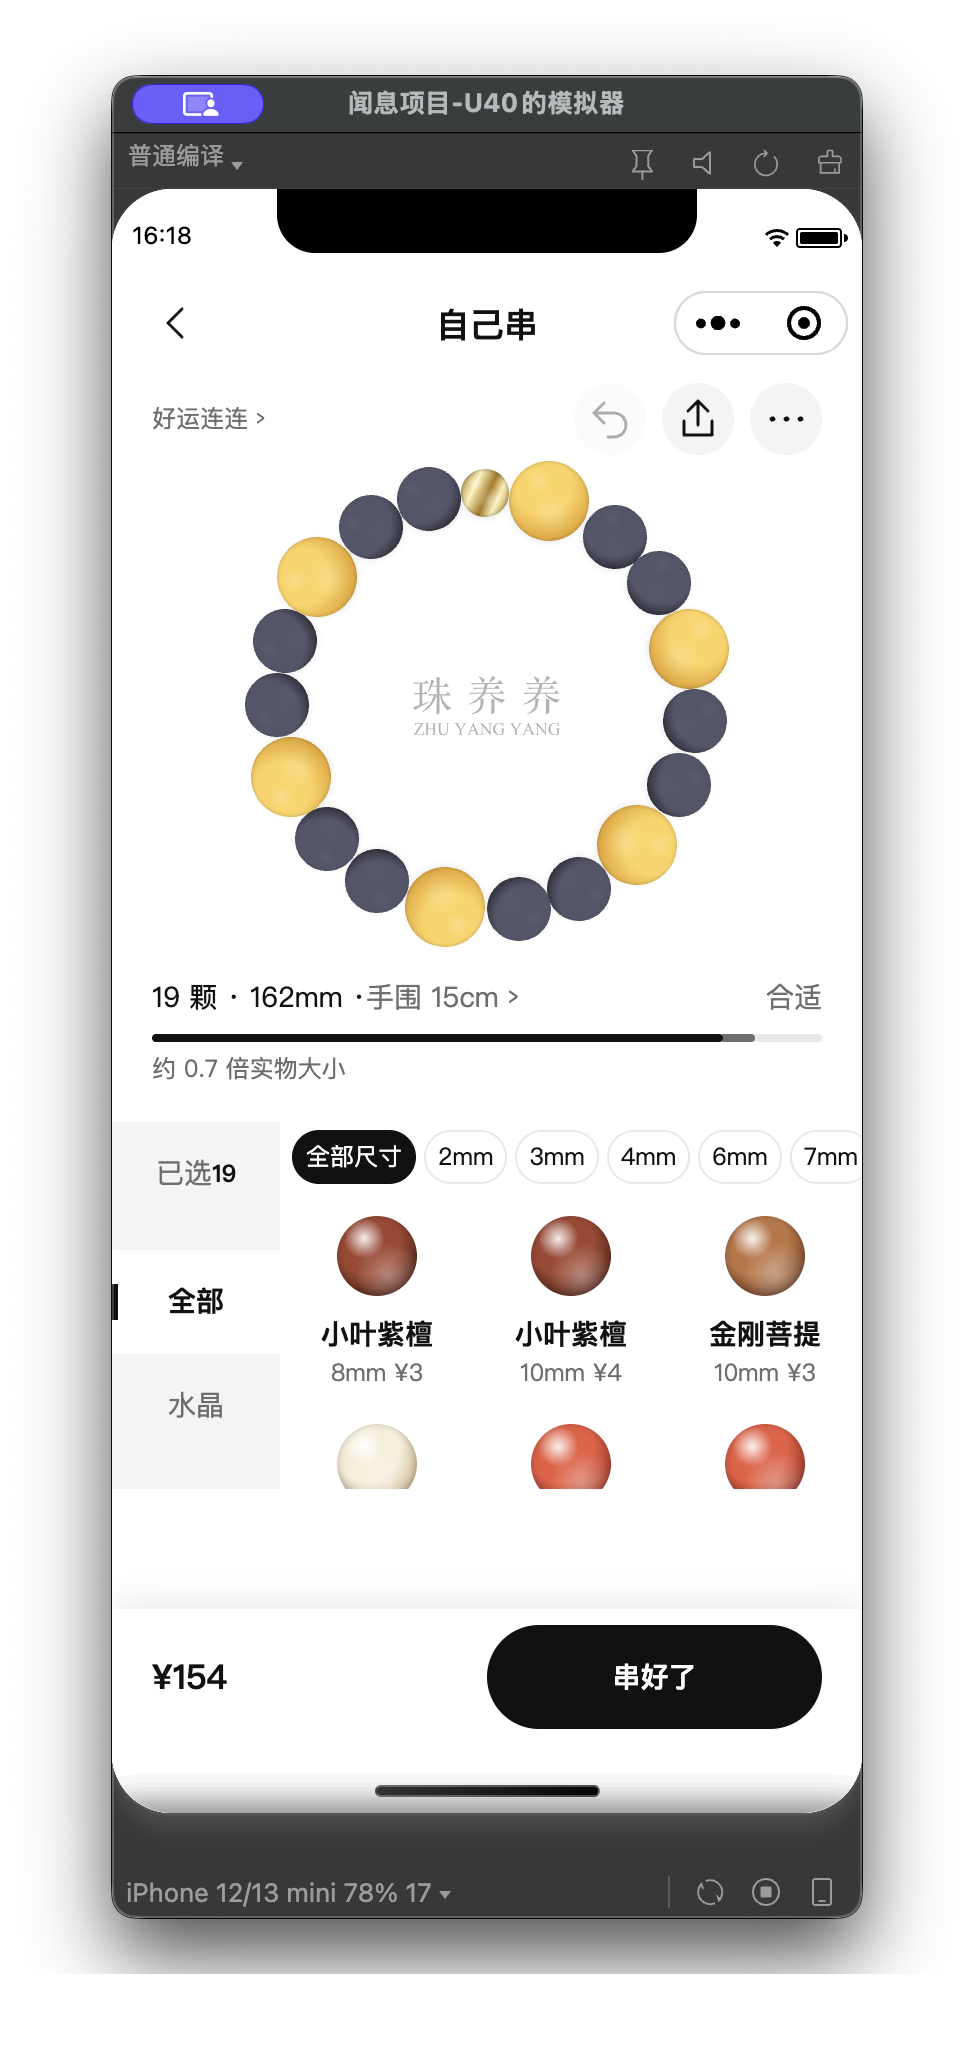
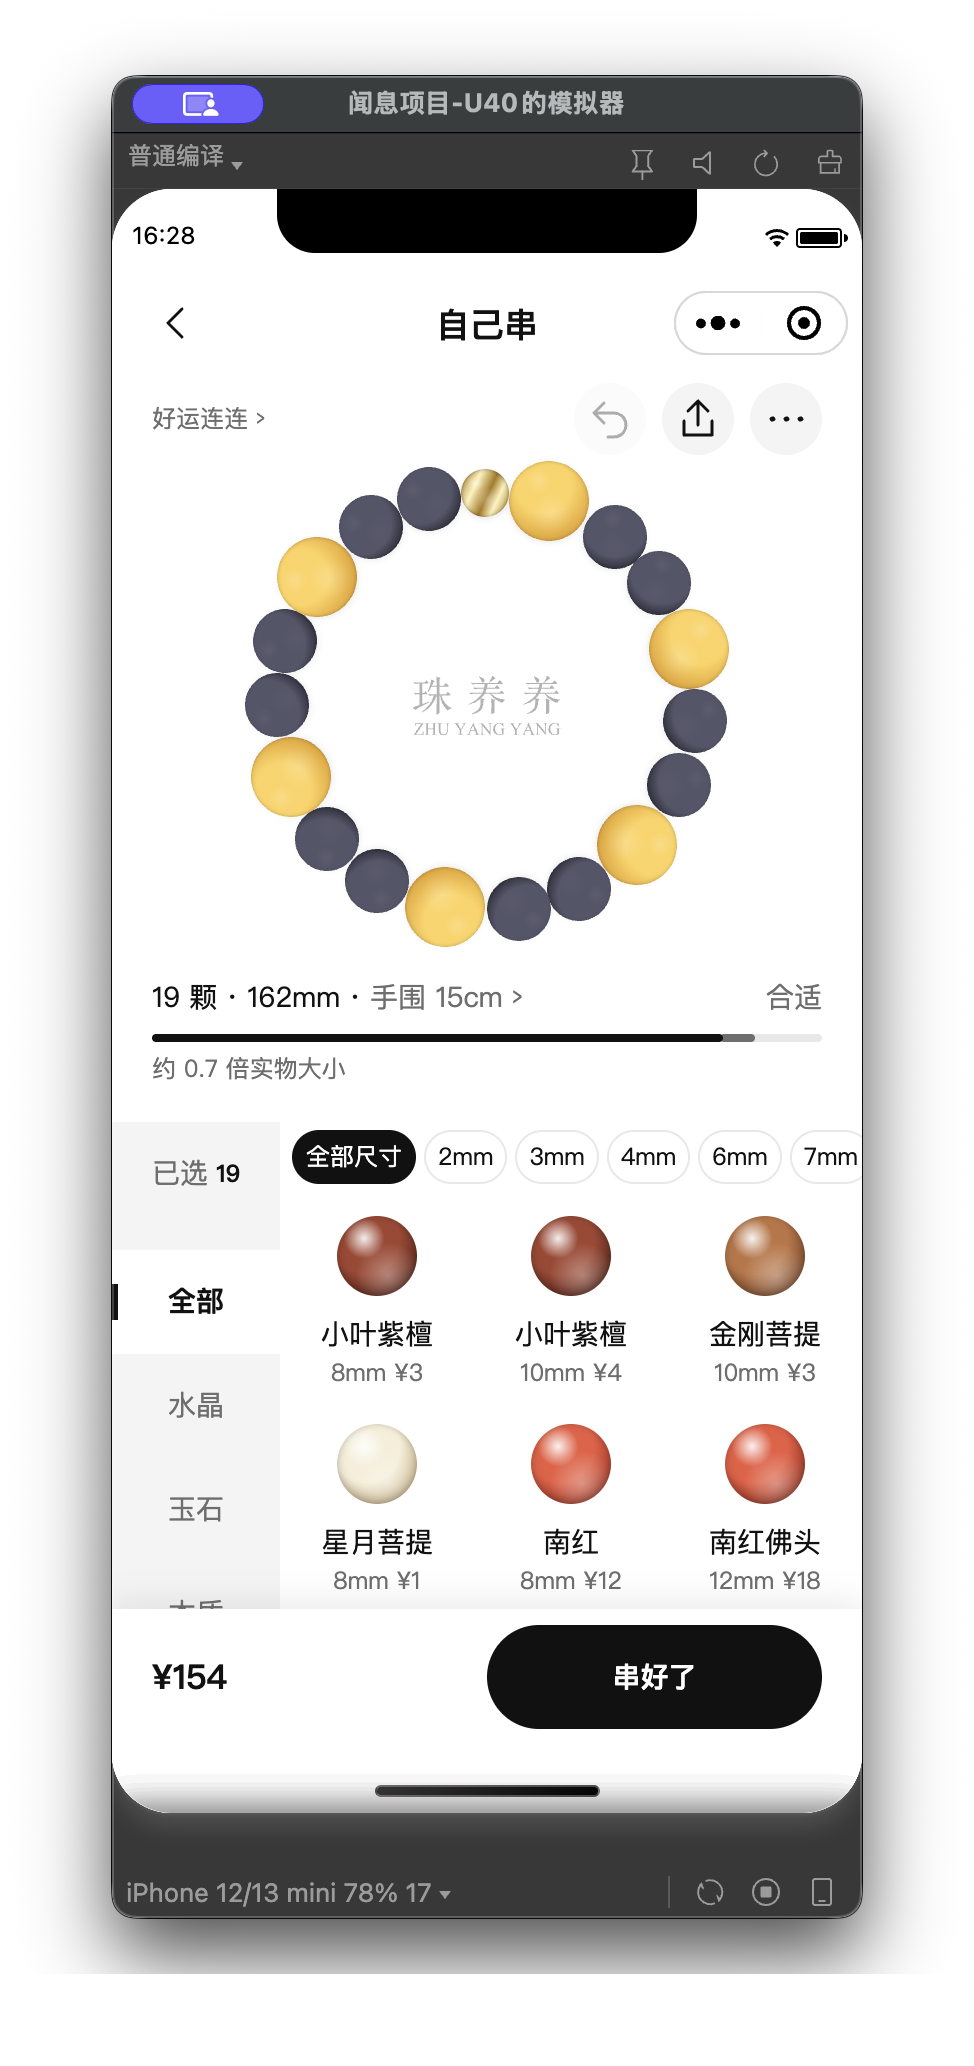
fix: fill U40 picker and verify workbench return routes

diff --git a/miniprogram/tests/u40-workbench-v7.test.js b/miniprogram/tests/u40-workbench-v7.test.js
@@ -53,3 +53,18 @@ test('目录和已选珠图固定尺寸，比例尺只用于托盘',()=>{
   assert.doesNotMatch(markup,/item(?:\.bead)?\.mm\s*\*\s*scaleRpx/)
   assert.match(markup,/pixelsPerMm="{{scaleRpx}}"/)
 })
+test('选珠区填满剩余空间，分类和珠格各自滚动，文字层级正确',()=>{
+  const markup=fs.readFileSync(path.join(__dirname,'../pages/diy/diy.wxml'),'utf8')
+  const styles=fs.readFileSync(path.join(__dirname,'../pages/diy/diy.wxss'),'utf8')
+  assert.match(styles,/\.workbench\{height:100vh;min-height:0;overflow:hidden\}/)
+  assert.match(styles,/\.picker\{[^}]*flex:1;min-height:0;padding:0;/)
+  assert.match(styles,/\.category-rail\{[^}]*height:100%;min-height:0/)
+  assert.match(styles,/\.bead-scroll,\.picked-scroll\{height:0;min-height:0;flex:1\}/)
+  assert.match(markup,/<scroll-view scroll-y[^>]*class="category-rail"/)
+  assert.match(markup,/<scroll-view wx:elif="{{cat === 'picked'}}" scroll-y/)
+  assert.match(markup,/<scroll-view wx:else scroll-y/)
+  assert.match(styles,/\.bead-name\{[^}]*font-weight:var\(--fw-regular\)/)
+  assert.match(styles,/\.picked-info\{[^}]*font-weight:var\(--fw-regular\)/)
+  assert.match(styles,/\.category-picked\{gap:8rpx\}/)
+  assert.match(markup,/<text>{{beadCount}} 颗<\/text><text>·<\/text><text>{{lengthMm}}mm<\/text><text>·<\/text>/)
+})

diff --git a/miniprogram/tests/nav.test.js b/miniprogram/tests/nav.test.js
@@ -61,6 +61,19 @@ test('workbench returns to tab by switchTab and non-tab by navigateTo with param
   assert.equal(stack.at(-1).route, 'features/works/works?id=a%20b')
 })
 
+test('workbench keeps each existing entry page as its return source', () => {
+  for (const route of ['pages/home/home', 'pages/finish/finish', 'features/works/works',
+    'features/orders/orders', 'features/order-detail/order-detail',
+    'features/shared/shared', 'pages/share/share', 'features/article/article']) {
+    stack = [{ route: 'pages/home/home' }, { route, options: { id: 'test' } }]
+    app.globalData = {}
+    nav.openWorkbench({ id: 'from-' + route, beads: [] })
+    assert.deepEqual(app.globalData.workbenchReturn, { route, options: { id: 'test' } })
+    nav.backFromWorkbench(app.globalData.workbenchReturn)
+    assert.equal(stack.at(-1).route.split('?')[0], route)
+  }
+})
+
 test('openEditor uses tab navigation without exceeding page stack', () => {
   storage.cgz_wrist_confirmed = true
   for (let i = 0; i < 20; i++) {

diff --git a/docs/reports/U40-v7.4-screenshots.md b/docs/reports/U40-v7.4-screenshots.md
@@ -9,7 +9,7 @@
 | ![设计空盘](U40-assets/design-01.png) | ![实拍空盘](U40-assets/01-empty-from-tab.png) |
 
 - **一致**：无返回键；空盘虚线圈、字标、托盘三键、状态行、量尺、左侧分类栏和右侧三列珠子格均可见。格内珠子统一显示 40px，规格价格独立显示。
-- **不一致及原因**：实拍左上是“好运连连”，设计为“起个名字”。此前在同一模拟器中打开过该模板，清空珠子保留了草稿名称；该图验证的是清空后的空盘状态。实拍还显示尺寸筛选行；设计样例未画此行，任务卡第 6 条要求保留，所以按任务卡保留。
+- **不一致及原因**：实拍显示尺寸筛选行；设计样例未画此行，任务卡第 6 条要求保留，所以按任务卡保留。
 
 ## ② 从模板进入：有返回、有珠子
 
@@ -29,11 +29,37 @@
 - **一致**：左侧“已选 N”高亮；右侧切换为珠子图、名称、规格单价、圆形减键、数量、圆形加键组成的列表行。列表图统一为 32px；量尺、底栏和托盘保留。
 - **不一致及原因**：设计样例是粉草莓晶 11 颗、粉晶 10 颗；实拍模板是黑曜石 12 颗、蜜蜡 6 颗、金色转运珠 1 颗，因此实际有三行、总价 ¥154。实拍还有尺寸筛选行；任务卡第 6 条要求保留。
 
+## 审核退回的四项修正
+
+1. **选珠区高度已改**：`.workbench` 以 `100vh` 建立纵向 flex 容器；`.picker` 用 `flex:1; min-height:0` 占满状态行与底栏之间的剩余空间，不用固定高度或底部 padding。分类栏和珠子格各自作为纵向 `scroll-view` 滚动；有底栏时灰底到栏上沿，无底栏时到屏幕底部（含安全区）。重新拍的三屏可见灰底与白底延伸到下缘。
+2. **珠名字重已改**：选珠格 `.bead-name` 和已选列表 `.picked-info` 均用 `--fs-body` 与常规字重；分类栏选中项、数量、金额、按钮保留加粗。
+3. **已选间隔已改**：分类栏“已选”和数字之间为 `8rpx`，实拍显示“已选 19”。
+4. **状态行间隔已改**：颗数、长度、手围间的分隔点各通过 `8rpx` flex 间隔留白，实拍为“19 颗 · 162mm · 手围 15cm ›”。
+
+## 入口返回键核对
+
+以下截图均为开发者工具画面左上角裁图。“返回到”是实际点击工作台返回键后的页面。代码层另覆盖现有来源页的记录与返回路径，不把代码测试当作实拍。
+
+| 入口 | 实际点击路径 | 有没有返回 | 点返回回到哪一页 | 截图文件名 |
+| --- | --- | --- | --- | --- |
+| 首页“自己串” | 首页 → 自己串快捷入口 | 有 | 首页 | [entry-home-shortcut.png](U40-assets/entry-home-shortcut.png) |
+| 首页热门款模板 | 首页 → 热门款 → 详情“改一改” | 有 | 手串详情 | [entry-home-template.png](U40-assets/entry-home-template.png) |
+| 首页横幅 | 首页 → 横幅 → 模板详情“改一改” | 有 | 手串详情 | [entry-home-banner.png](U40-assets/entry-home-banner.png) |
+| 珠子详情“去串” | 当前代码无此入口 | 不适用 | 不适用 | — |
+| 我的作品新建 | 我的 → 我的作品 → 新建 | 有 | 我的作品 | [entry-works-new.png](U40-assets/entry-works-new.png) |
+| 我的作品打开 | 我的 → 我的作品 → 打开已有作品 | 有 | 我的作品 | [entry-works-open.png](U40-assets/entry-works-open.png) |
+| 订单“再来一单” | 我的 → 我的订单，被登录页拦下；另从热门款 → 立即下单进入确认订单页，该手串长度合适，页面无“回去调整”入口 | 未验证 | 未验证 | — |
+| 分享页“照这条串一条” | 本地测试分享快照 → 好友分享页 → “照这条串一条” | 有 | 好友分享页 | [entry-share-use.png](U40-assets/entry-share-use.png) |
+| 文章“去串” | 离线无文章数据 | 未验证 | 未验证 | — |
+| 底部导航“自己串” | 底部 tab → 自己串 | 无（符合设计） | 不适用 | [entry-bottom-tab.png](U40-assets/entry-bottom-tab.png) |
+
+订单入口未完成界面验收：本地没有已登录的历史订单，登录页需要用户同意协议；未替用户勾选。分享页使用仅在本机测试服务中创建的样例快照，未提交样例数据或令牌。文章入口离线无数据，未验证。
+
 ## 已完成的验证
 
 - `python3 -m unittest discover -s server/tests`：745 OK，10 skipped。
-- `node --test miniprogram/tests/*.test.js`：392 passed。
-- `python3 kb/data/validate.py`：202/202，0 issues。
+- `node --test miniprogram/tests/*.test.js`：394 passed（追加入口路径测试后重跑全量）。
+- `python3 kb/validate.py`：202/202，0 issues。
 - `python3 tools/check-ui.py`：40 条既有问题，0 条新增问题。
 
-截图是在提交前对真实开发者工具画面核对，未将设计图当作运行结果。开发者工具当前离线请求 `127.0.0.1:8801` 因合法域名限制报错，页面使用仓库内演示数据；不影响这三张本地布局截图。
+截图是在提交前对真实开发者工具画面核对，未将设计图当作运行结果。前三屏使用仓库内演示数据；分享页验收时启动本机测试服务，并在开发者工具中开启本地请求调试。该设置未提交。
